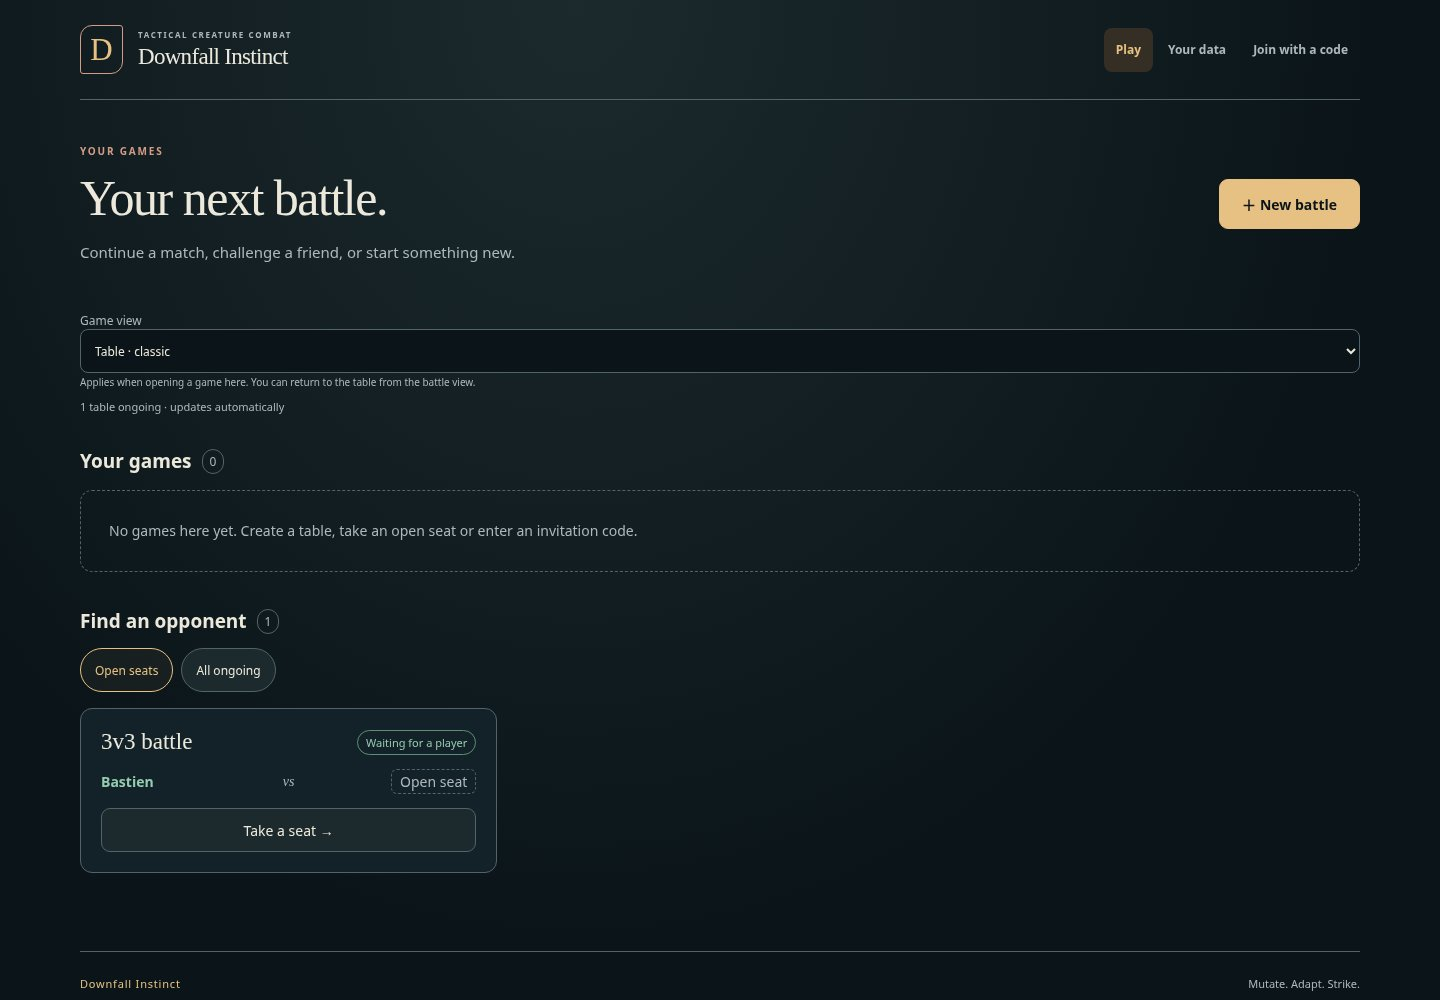
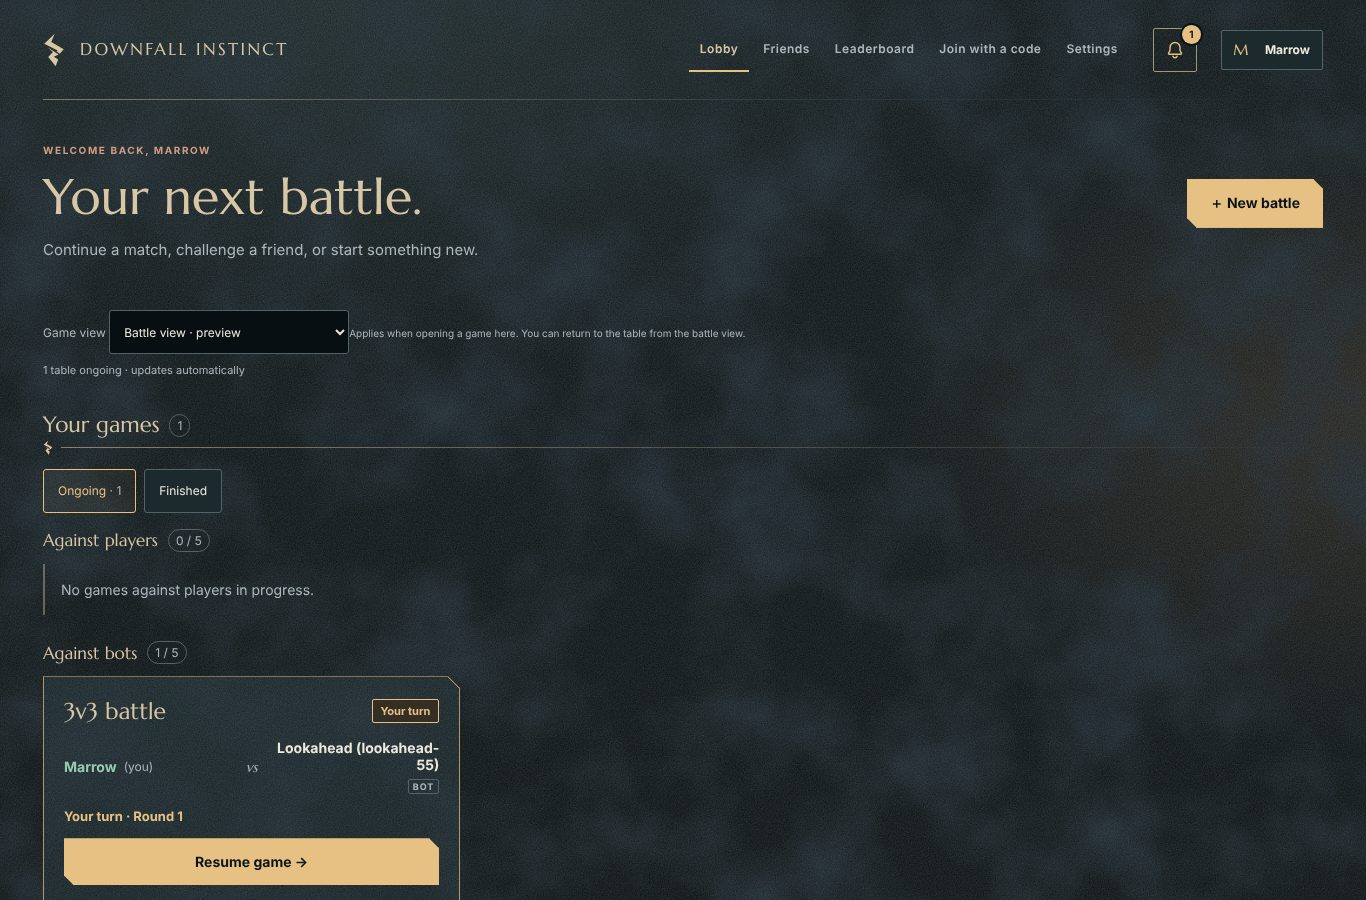
Refresh the lobby reference captures for the bone-and-soot pass
Claude-Session: https://claude.ai/code/session_01EeBMawfMfw48ygBLRbQEyQ

diff --git a/docs/art/branding.md b/docs/art/branding.md
@@ -115,7 +115,8 @@ illustrations and gameplay colours are unchanged.
 
 ## Reference captures
 
-These use the real static pages and repository catalogue, with an explicitly fictional open-table API fixture.
+The lobby captures show the bone-and-soot pass (ADR 0157): a local host with developer sign-in, a made-up player
+name and one game against a bot. The studio captures predate that pass and use the repository catalogue.
 They demonstrate branding, not a live multiplayer match.
 
 | Surface | Desktop | Phone |
